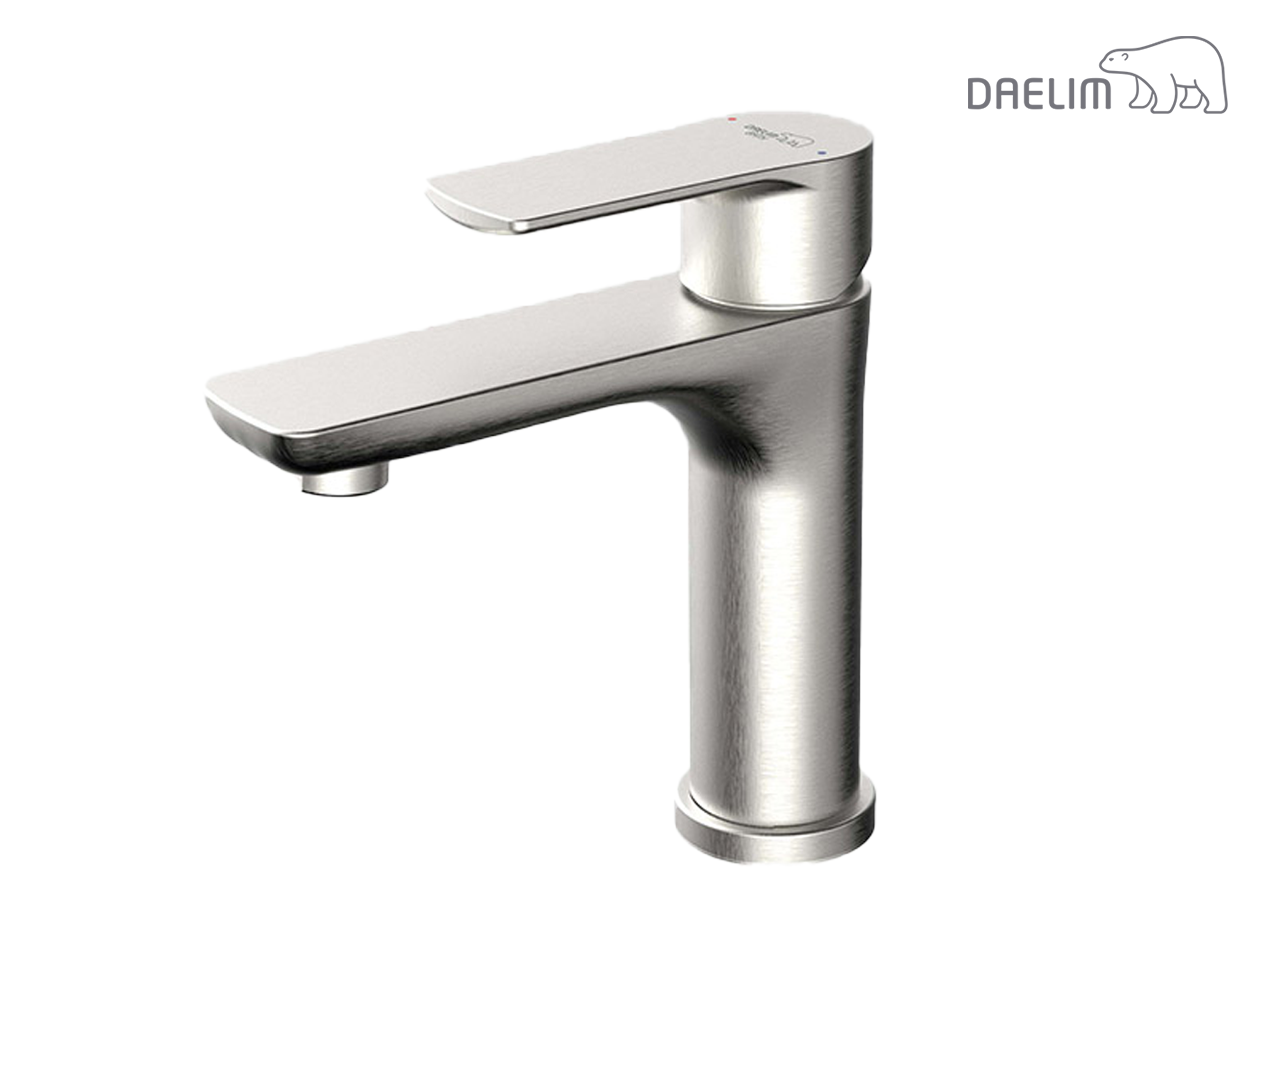
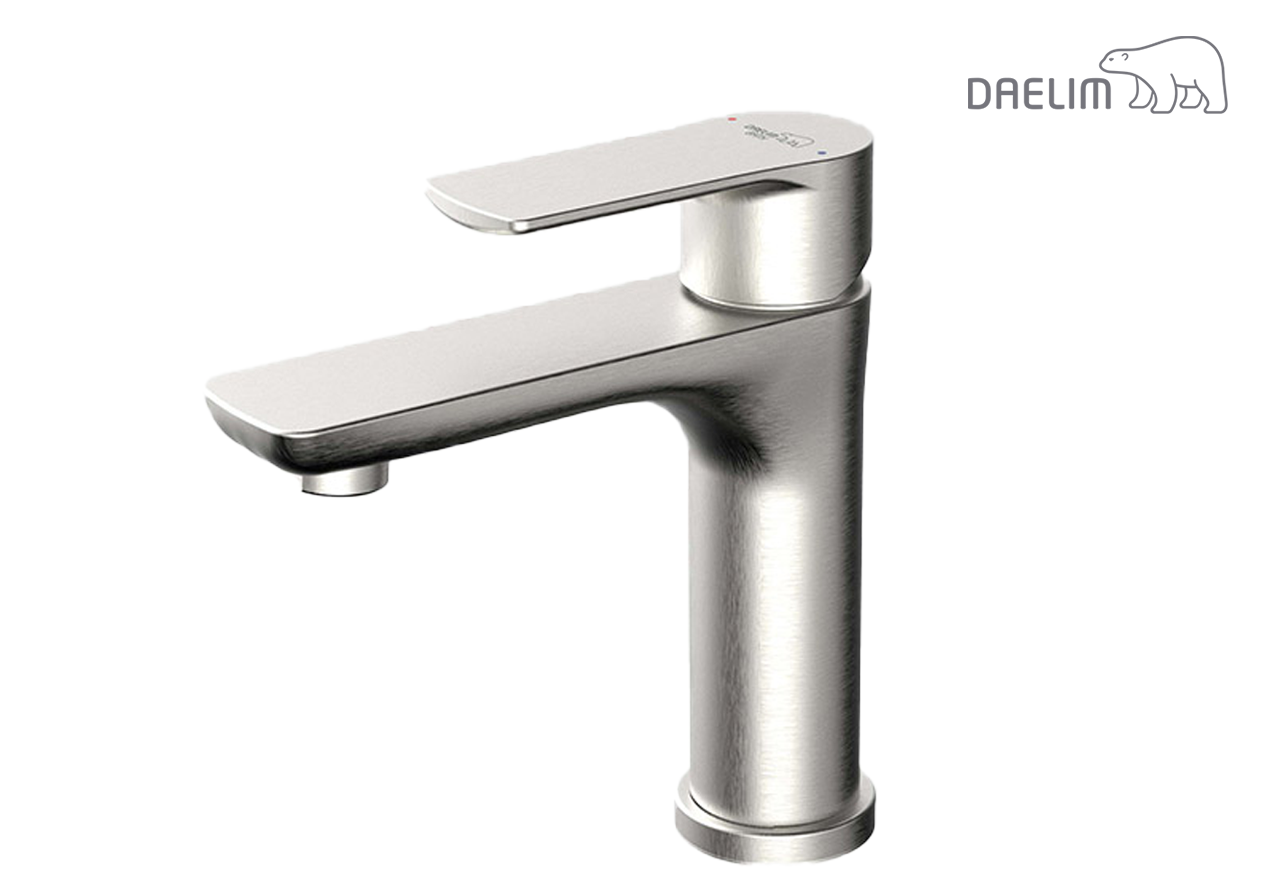
ui수정
1

Changed region(s): [[0.1562, 0.092, 0.6875, 0.583], [0.5312, 0.675, 0.6875, 0.9818], [0.75, 0.0307, 0.9688, 0.1227]]

diff --git a/css/style.css b/css/style.css
@@ -35,26 +35,34 @@ html,body {
 	letter-spacing: -0.5px;
 }
 .col_m {
-	font-size:32px; color: #fff; padding:0 20px;
+	font-size:32px; color: #fff; padding:0 10px; display: flex; justify-content: space-between;
 }
-.col_m2 { background:#fff; color:red; margin:10px 0px 20px 0px; padding:4px 20px 8px 20px; width:100%; font-size:36px;}
-.col_m span:last-child, .col_m2 span:last-child{float: right; font-weight: 700; letter-spacing: -1px;}
+.col_m2 { background:#fff; color:red; margin:10px 0px 20px 0px; display: flex; justify-content: space-between; padding:4px 10px 8px 10px; width:100%; font-size:36px;}
+.col_m span:last-child, .col_m2 span:last-child{text-align: right; font-weight: 700; letter-spacing: -1px;}
 .cont2{
 	flex: 2;
 	padding:0;
 	margin: 0;
+	display: flex;
+	flex-direction: column;
+	position: relative;
 }
-.cont2_top{color:#ff6600;}
-.cont2_top img {width:100%;}
+.cont2_top{color:#ff6600; display: flex; justify-content: center; align-items: center; flex: 2;}
+.cont2_top img {width:100%; max-width: 1280px;}
 .cont2_bottom {
-	position: absolute;
-	bottom: 0;
 	width:100%;
 }
 .prod_wrap{
+	padding-left:50px;
 	display: flex;
-	flex-direction: row;
+	flex-direction: column;
 }
+.prod1 { letter-spacing: -1px; position: absolute; bottom:30px;}
+.prod1 span:first-child { font-size: 38px; font-weight: 700; display: block;}
+.prod1 span:last-child { font-size: 30px; font-weight: 400; display: block;}
+.prod2 { letter-spacing: -1px; position: absolute; right:30px; bottom:30px; text-align: right;}
+.prod2 span:first-child { font-size: 38px; font-weight: 400; display: block;}
+.prod2 span:last-child { font-size: 100px; font-weight: 800; display: block; color: #e60012; line-height: 1; letter-spacing: -1.8px;}
 
 /* 768이하일 때 */
 @media screen and (max-width: 768px) {

diff --git a/index.html b/index.html
@@ -14,11 +14,11 @@
 			</div>
 			<div class="cont1_col_bottom">
 				<div class="col_m">
-					<span>- 출장비</span>
+					<span>ㆍ출장비</span>
 					<span>10,000</span>
 				</div>
 				<div class="col_m">
-					<span>- 설치공임</span>
+					<span>ㆍ설치공임</span>
 					<span>30,000</span>
 				</div>
 				<div class="col_m2">
@@ -34,8 +34,8 @@
 			<div class="cont2_bottom">
 				<div class="prod_wrap">
 					<div class="prod1">
-						<span>제목</span>
-						<span>내용내용</span>
+						<span>대림바스 DL-L2310SN</span>
+						<span>생활과 품격을 아우르는 가장 독보적인 기술<br>대림바스 무광 세면 원홀 수전</span>
 					</div>
 					<div class="prod2">
 						<span>판매가격</span>